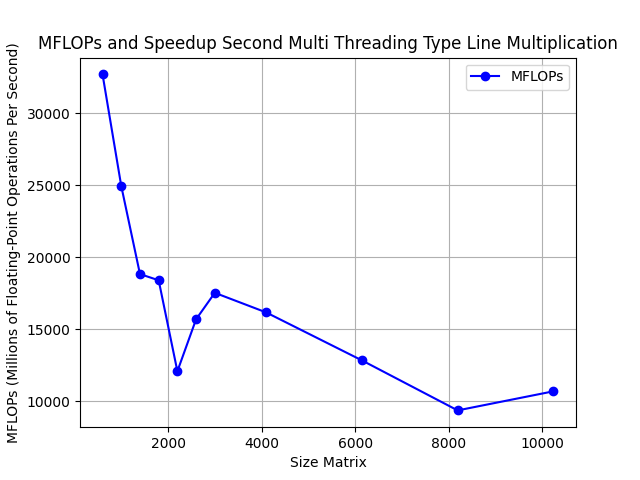
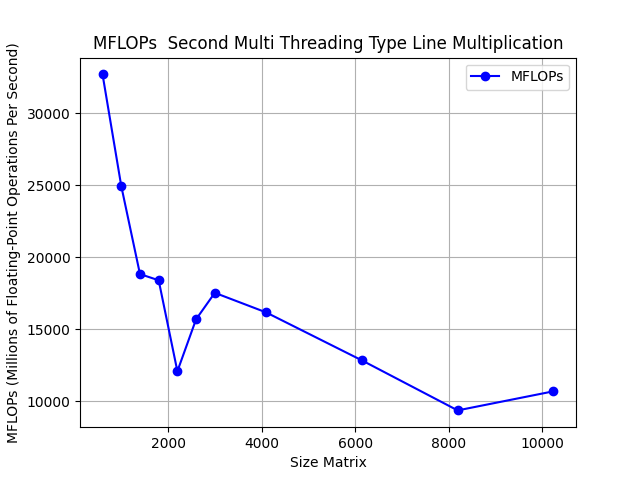
updated incorrect graphs

Changed region(s): [[0.0625, 0.0625, 0.9688, 0.125]]

diff --git a/assign1/src/plotMaker.py b/assign1/src/plotMaker.py
@@ -101,7 +101,7 @@ def lineGraphs():
     # plt.show()
 
     plt.plot(sizeCpp, timeCpp, marker='o',linestyle='-', color='blue', label='Time C++')
-    plt.plot(sizeJava, timeJava, marker='o' ,linestyle='--', color='red', label='L2 Cache Misses')
+    plt.plot(sizeJava, timeJava, marker='o' ,linestyle='--', color='red', label='Time Java')
 
     plt.xlabel('Size Matrix')
     plt.ylabel('Time (Seconds)')
@@ -354,10 +354,10 @@ def multiThreadingSecond():
     plt.ylabel('MFLOPs (Millions of Floating-Point Operations Per Second)')
 
 
-    plt.title('MFLOPs and Speedup Second Multi Threading Type Line Multiplication')
+    plt.title('MFLOPs  Second Multi Threading Type Line Multiplication')
     plt.legend()
     plt.grid(True) 
 
     plt.show()
 
-multiThreadingFirst()
+multiThreadingSecond()
